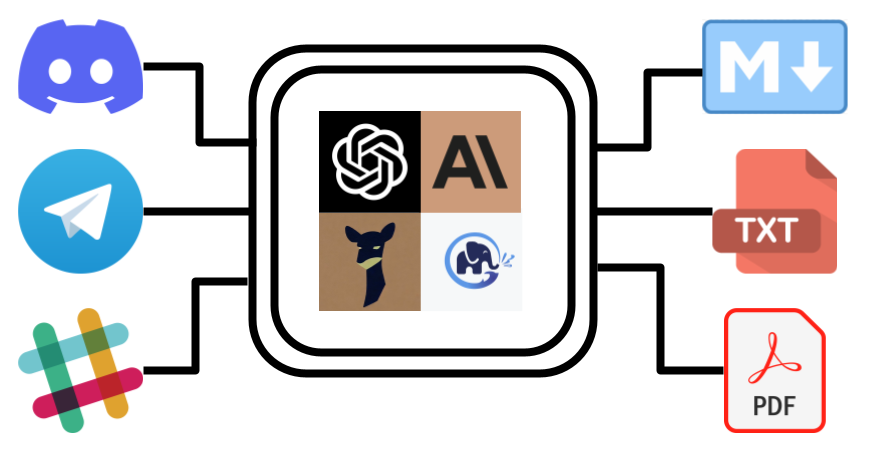
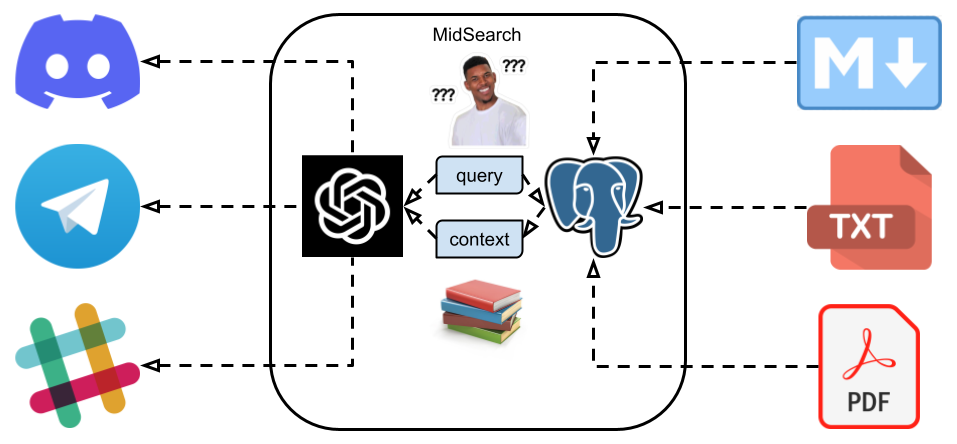
new image

diff --git a/README.md b/README.md
@@ -8,7 +8,7 @@
 [![Docker Image Size (latest semver)](https://img.shields.io/docker/image-size/zhenghaoz/midsearch)](https://hub.docker.com/r/zhenghaoz/midsearch)
 [![Docker Pulls](https://img.shields.io/docker/pulls/zhenghaoz/midsearch)](https://hub.docker.com/r/zhenghaoz/midsearch)
 
-MidSearch is a middleware to connect chat bots to search engines. It gerenetes human friendly answers to user questions based on ingested documents. Besides its basic question answering ability, MidSearch also supports more advanced features:
+MidSearch is a middleware to connect chat bots to search engines (Postgres). It gerenetes human friendly answers to user questions based on ingested documents. Besides its basic question answering ability, MidSearch also supports more advanced features:
 
 - **Observality**: Conversactions between users and chat bots are recorded and can be used to improve documents.
 - **Evaluation**: Users or administrators can rate the quality of answers to questions to track the quality of documents.
@@ -86,6 +86,12 @@ DISCORD_BOT_TOKEN=xxxxxxxx
 ```bash
 docker-compose up -d
 ```
+
+## TODO
+
+- [ ] Support more search engines (Elasticsearch, etc.)
+- [ ] Support more chat bots (Slack, etc.)
+- [ ] Support more file formats (PDF, etc.)
 
 ## Acknowledgments
 
